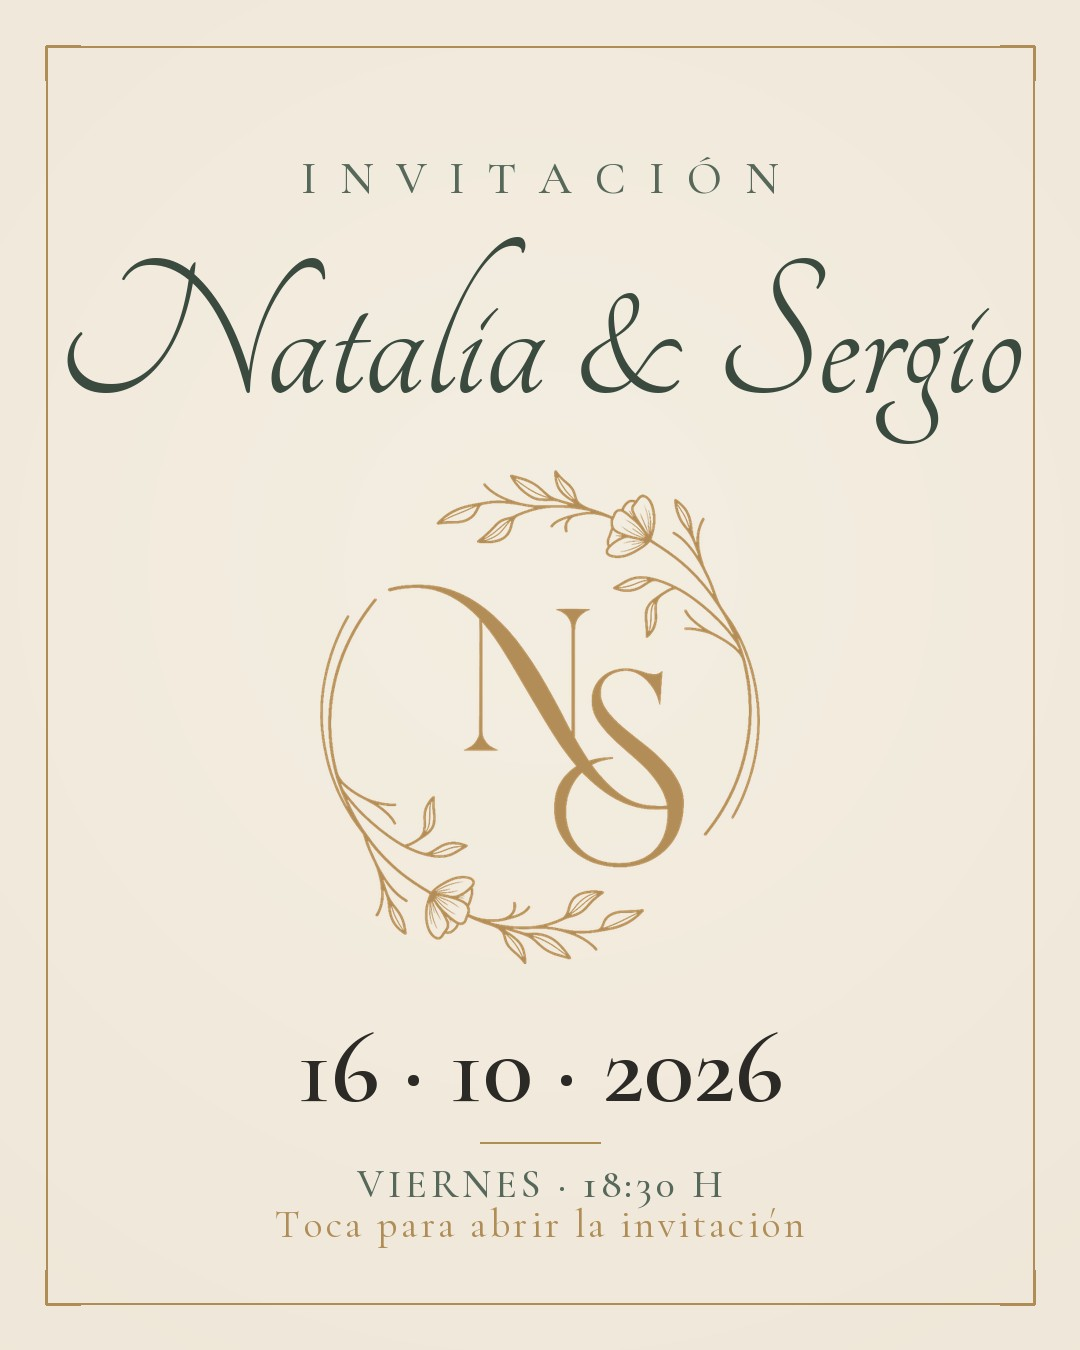
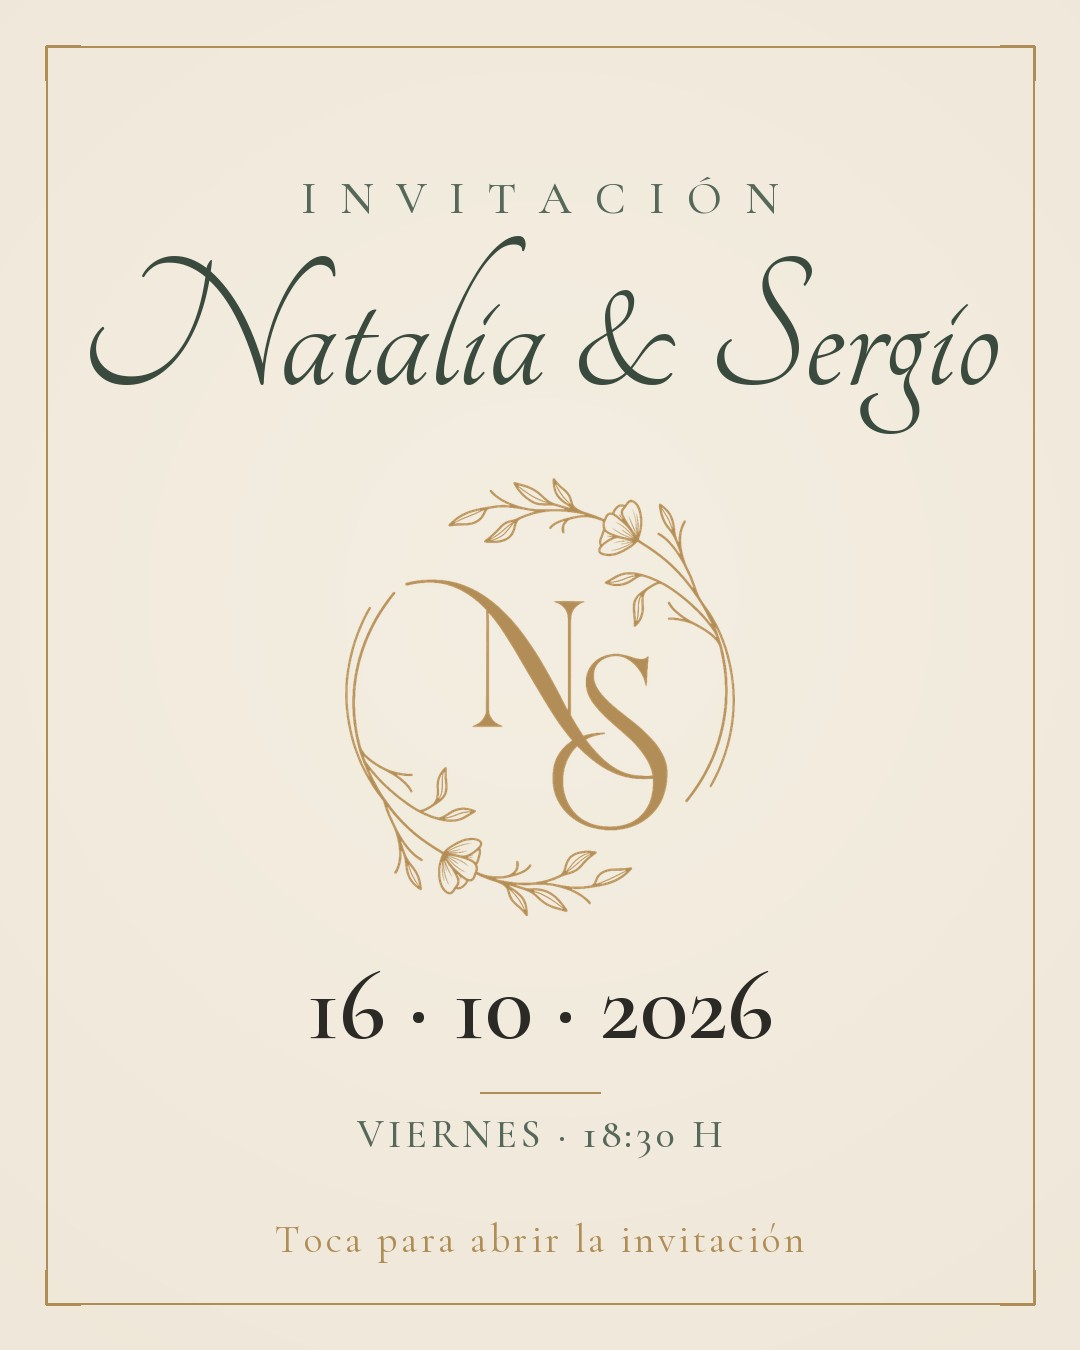
Add files via upload

diff --git a/index.html b/index.html
@@ -179,7 +179,7 @@ body{
   padding:54px 30px 90px;}
 
 /* ---- Slide 1: portada (logo + fecha) ---- */
-#s1{justify-content:center;text-align:center;
+#s1{justify-content:flex-start;text-align:center;
   background:
     radial-gradient(110% 80% at 50% -10%, var(--crema) 0%, var(--crema-2) 100%);
 }
@@ -191,11 +191,11 @@ body{
 #s1 .marco::after{bottom:-1px;right:-1px;border-left:0;border-top:0;}
 
 .eyebrow{font-family:var(--display);letter-spacing:.5em;text-transform:uppercase;
-  font-size:.72rem;color:var(--verde-2);padding-left:.5em;margin-bottom:8px;}
-.logo-monograma{height:225px;width:auto;display:block;margin:34px auto 4px;
+  font-size:.72rem;color:var(--verde-2);padding-left:.5em;margin:auto auto 8px;}
+.logo-monograma{height:200px;width:auto;display:block;margin:18px auto 4px;
   filter:drop-shadow(0 4px 10px rgba(176,141,87,.25));}
-.nombres{font-family:var(--script);font-size:4.4rem;line-height:.95;color:var(--verde);
-  margin:10px 0 0;}
+.nombres{font-family:var(--script);font-weight:400;font-size:4.4rem;line-height:.95;color:var(--verde);
+  margin:8px 0 0;}
 .amp{display:block;font-size:2.2rem;color:var(--oro);margin:-6px 0;}
 .subtitulo{font-family:var(--display);letter-spacing:.3em;text-transform:uppercase;
   font-size:.78rem;color:var(--tinta);opacity:.8;margin-top:10px;}
@@ -203,7 +203,7 @@ body{
   color:var(--verde-2);max-width:280px;margin:14px auto 0;}
 .fecha-grande{font-family:var(--display);font-weight:500;font-size:2.5rem;color:var(--tinta);
   margin-top:22px;letter-spacing:.02em;}
-.fecha-linea{display:flex;align-items:center;gap:14px;margin:14px auto 0;
+.fecha-linea{display:flex;align-items:center;gap:14px;margin:14px auto auto;
   font-family:var(--display);letter-spacing:.25em;text-transform:uppercase;
   font-size:.8rem;color:var(--verde-2);}
 .fecha-linea::before,.fecha-linea::after{content:"";width:34px;height:1px;background:var(--oro);}
